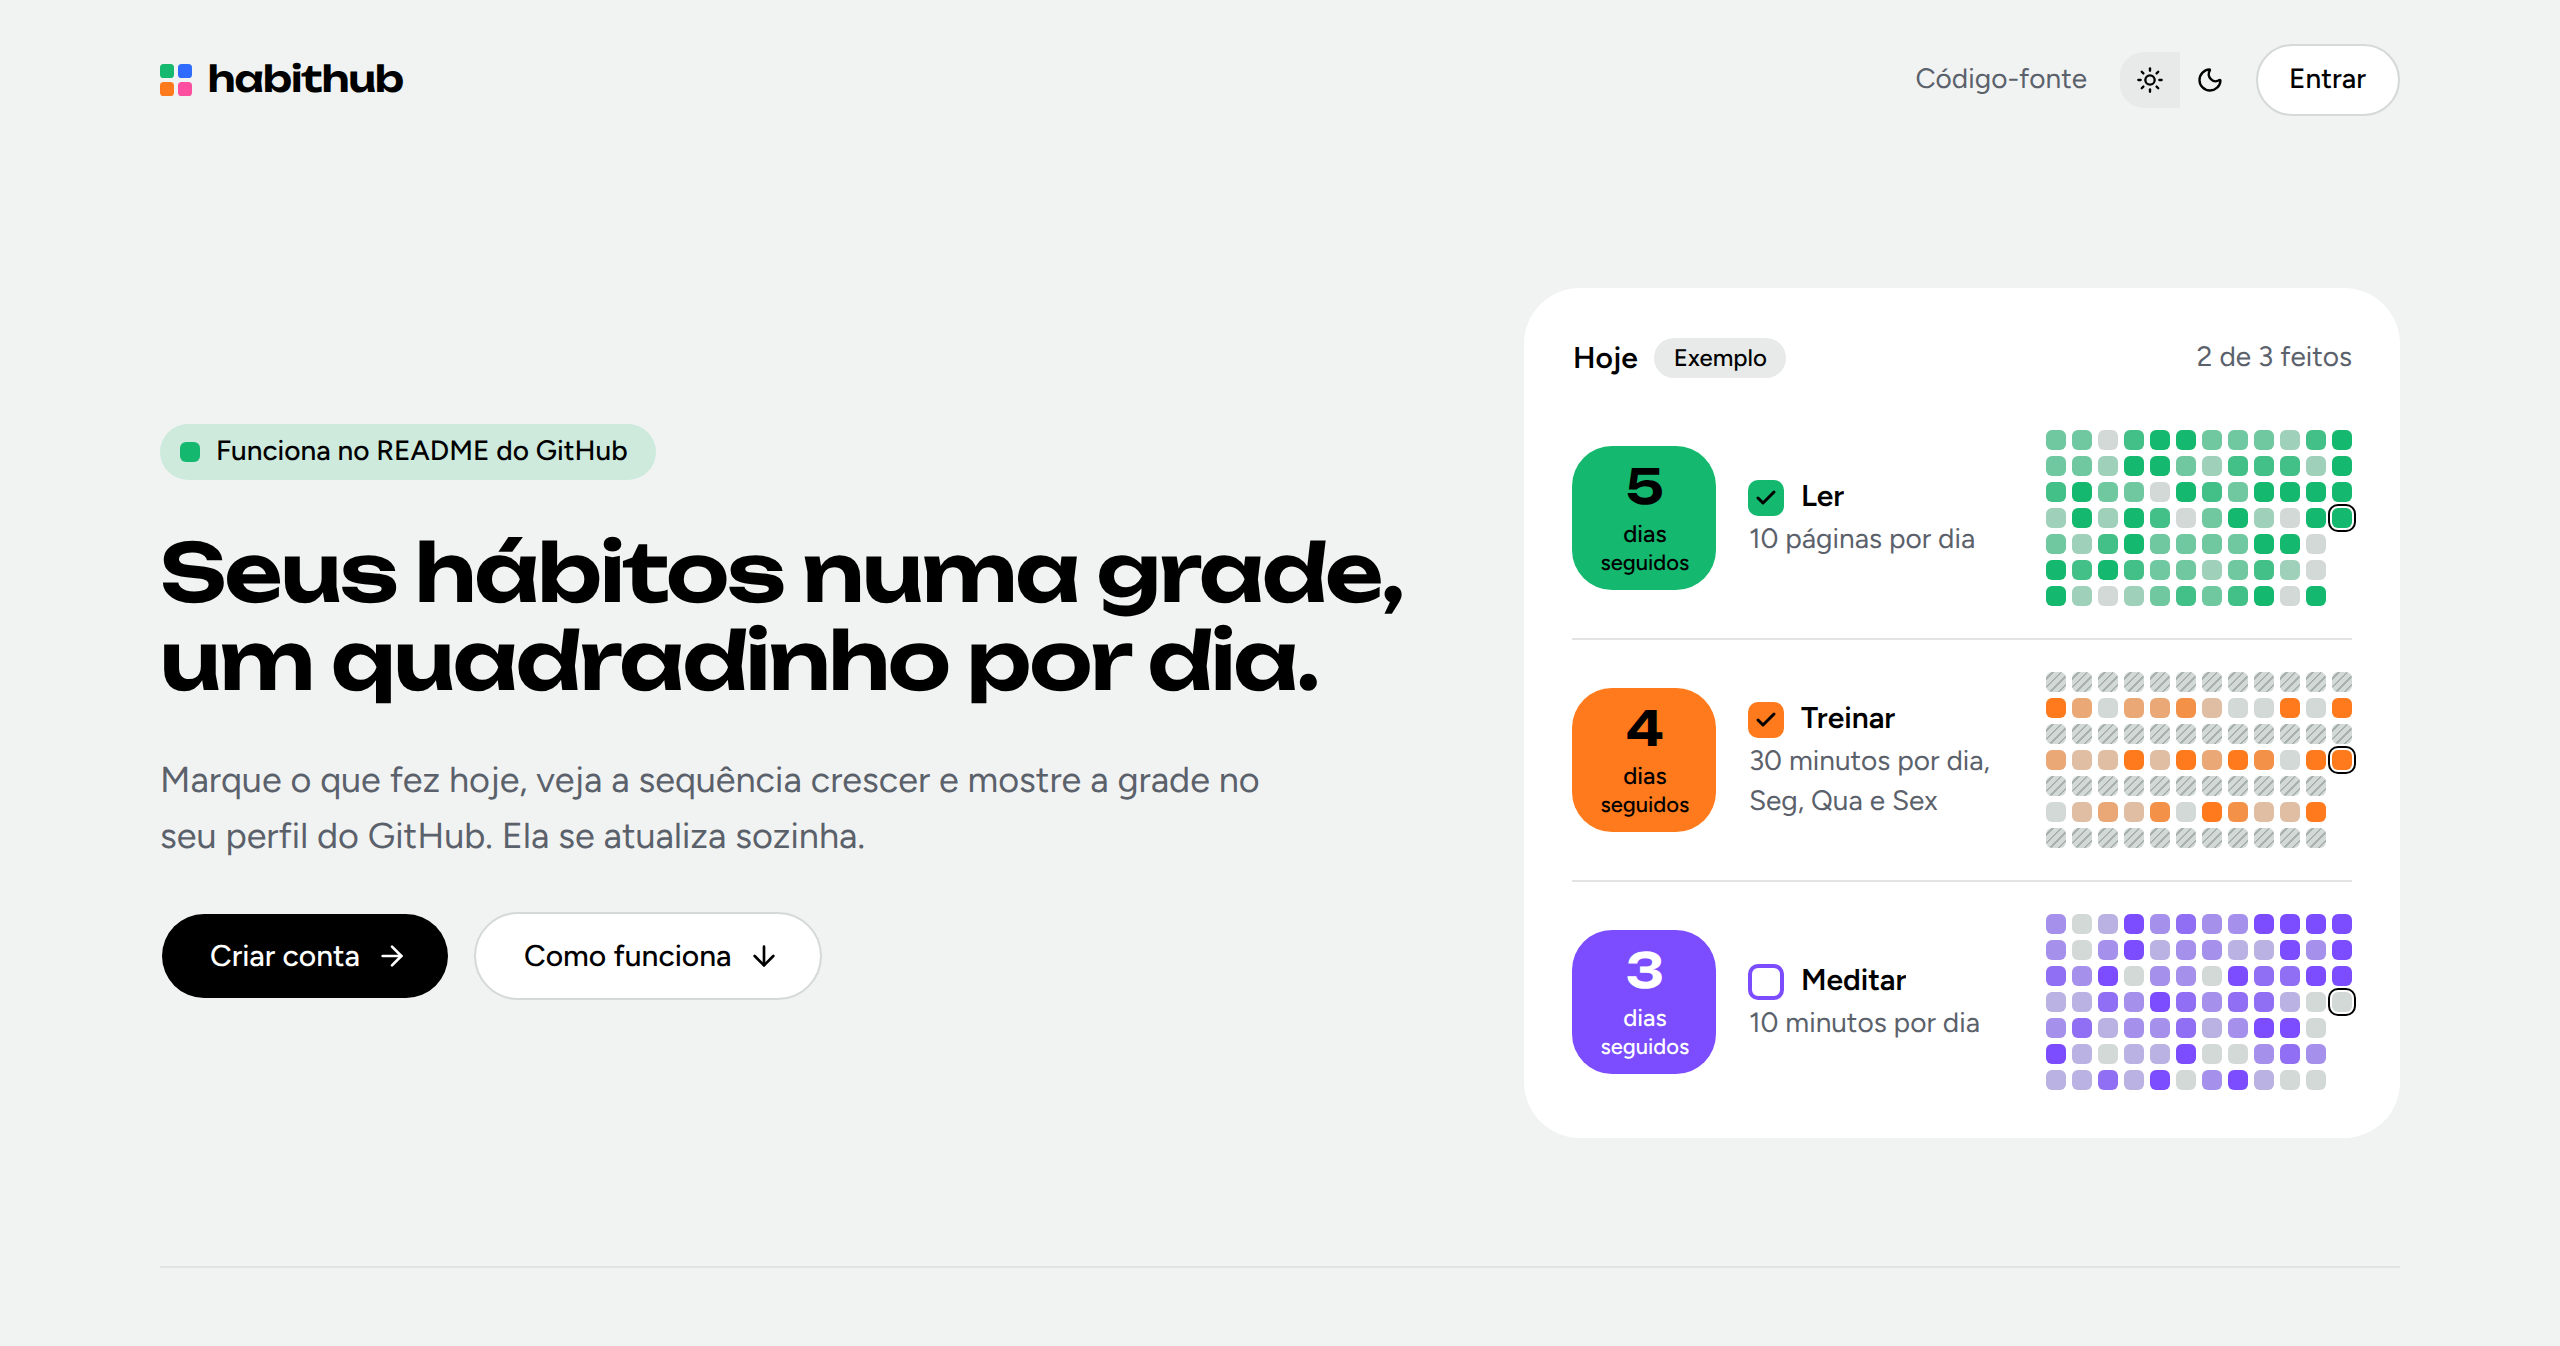
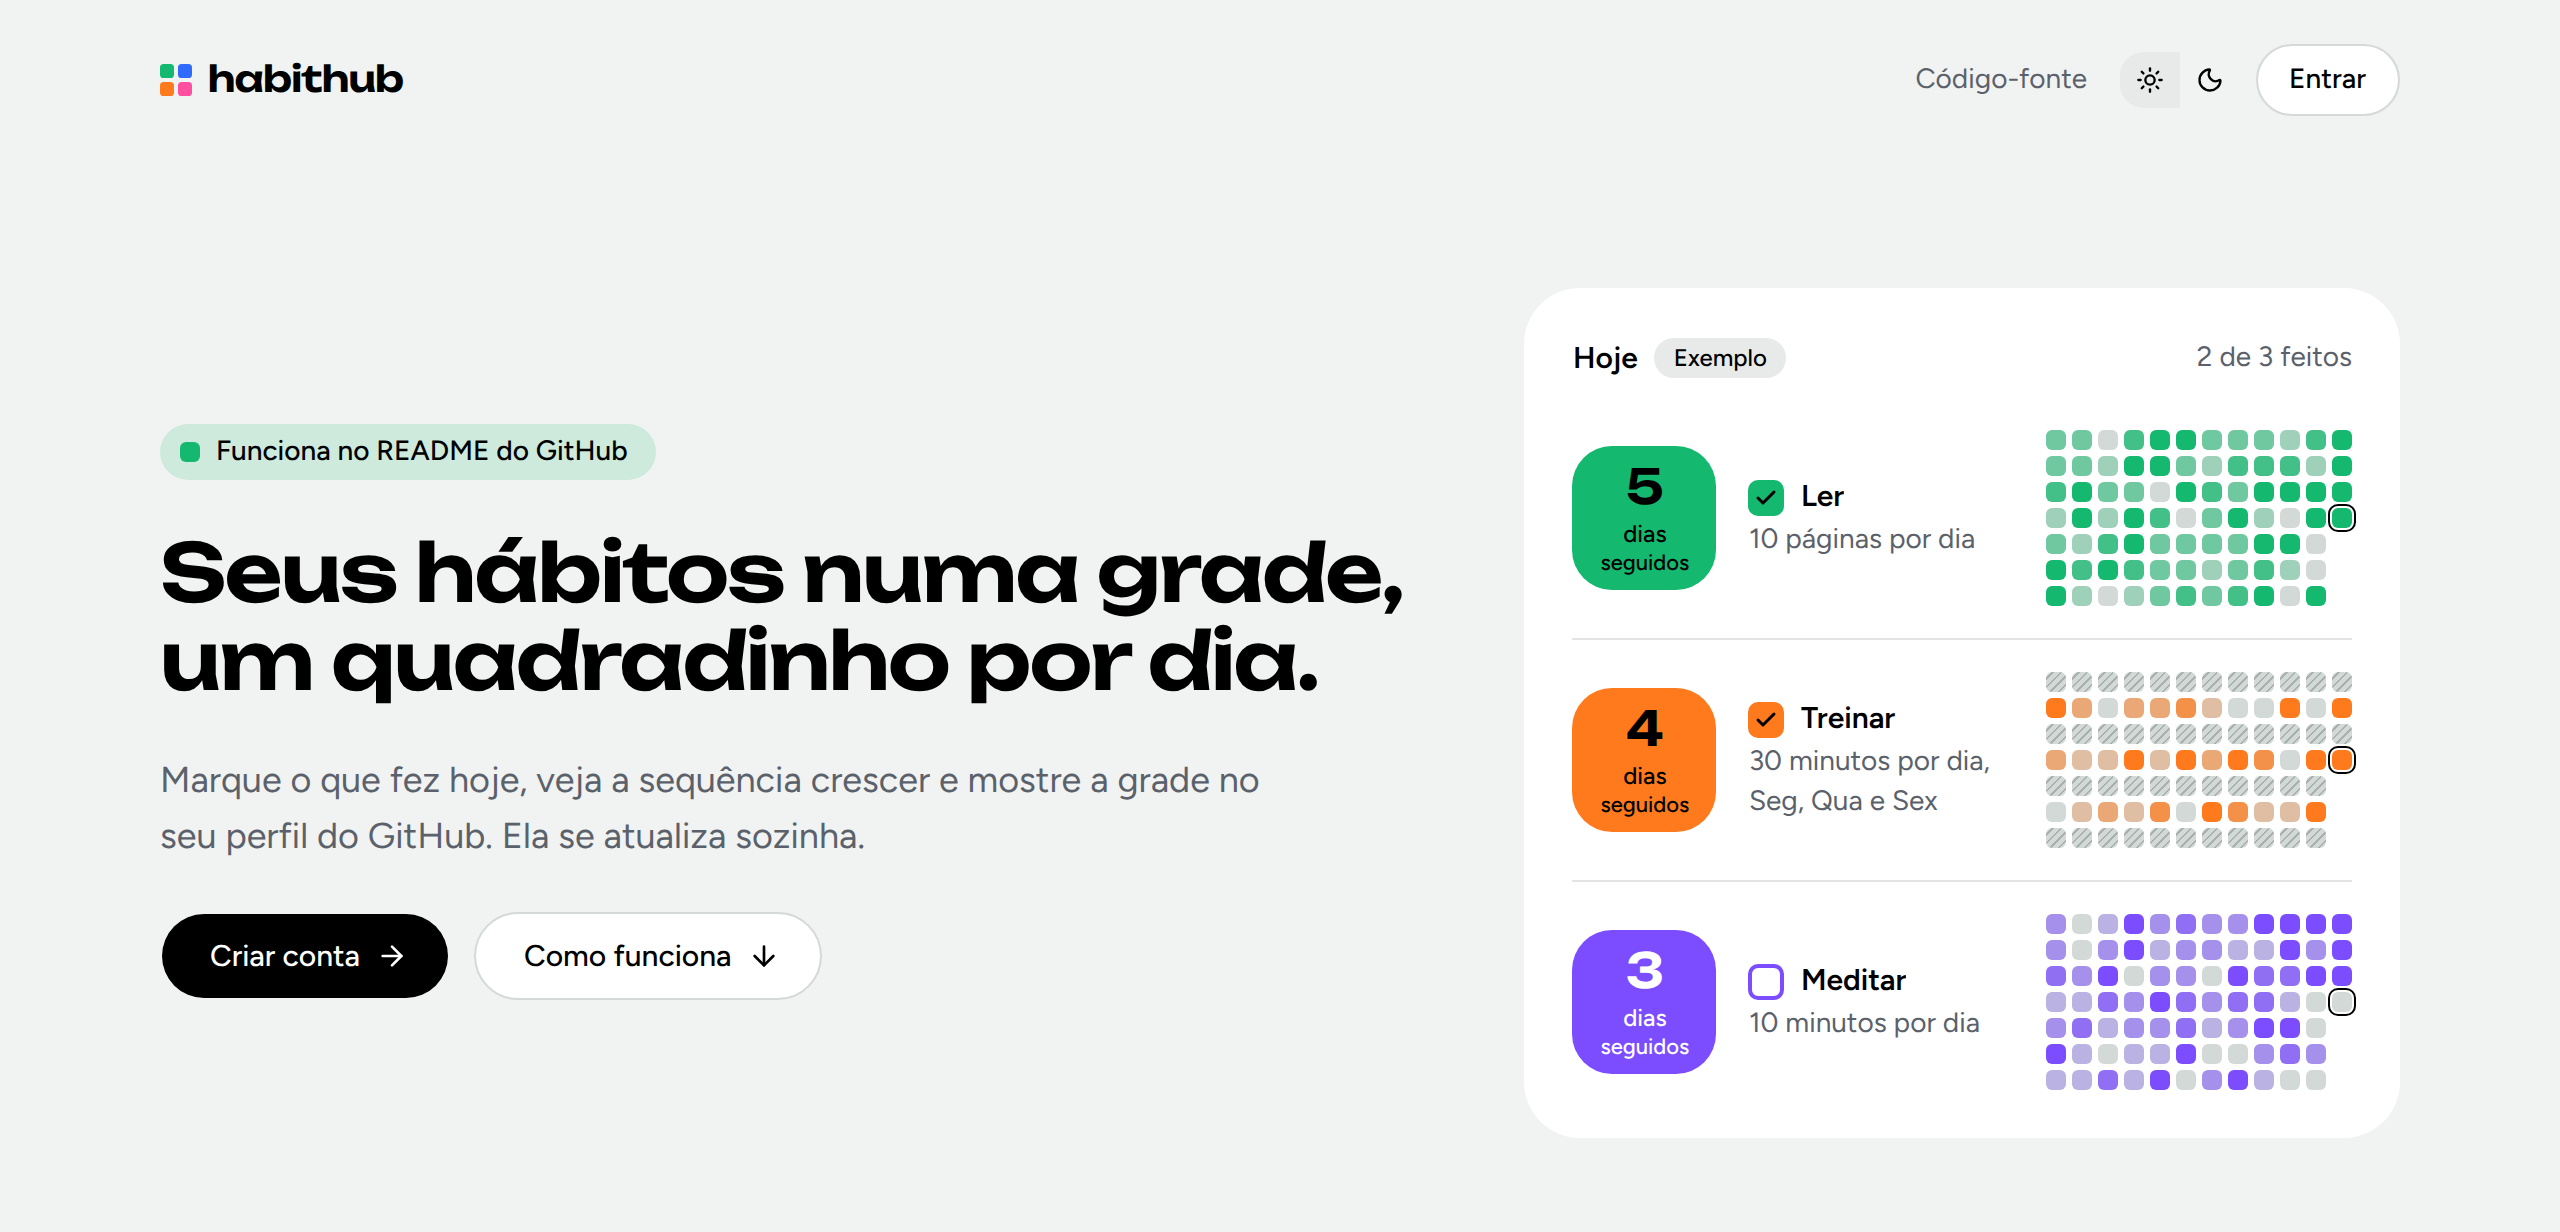
docs: README gallery without repeats, collapsible data model, one limitations section
- The dashboard capture repeated what the GIF shows; it is replaced by the
  README code screen (a published habit's preview and the code to copy).
  Both gallery captures now share 1280x720.
- The home capture stops above the divider, and the phone capture at the end
  of "Tarefas do dia".
- The data model diagram sits in a <details> ("Ver modelo de dados"); the
  note on effective_from stays visible.
- Next steps and known limitations become one section where each
  limitation carries its plan; the Gmail limits stay only in Decisões.
- The header tagline no longer repeats the one in the home capture.

diff --git a/scripts/readme-media.ts b/scripts/readme-media.ts
@@ -1,6 +1,7 @@
 /**
  * Regenerates the README images in docs/screenshots/: the logo, the home page (light and
- * dark), the dashboard, a habit page, the phone view and the GIF of a habit being marked.
+ * dark), the README code of a published habit, a habit page, the phone view and the GIF of a
+ * habit being marked.
  *
  * Needs, in this order:
  *   docker compose up -d && npm run db:migrate && npm run db:seed
@@ -24,6 +25,8 @@ const EMAIL = "dev@habithub.local";
 const PASSWORD = "senha-de-dev-123";
 const DESKTOP = { width: 1280, height: 800 };
 const PHONE = { width: 390, height: 844 };
+/** The two desktop captures in the README gallery share this size. */
+const GALLERY = { width: 1280, height: 720 };
 
 async function sql(query: string, params: unknown[] = []) {
   const client = new Client({ connectionString: process.env.DATABASE_URL });
@@ -35,9 +38,16 @@ async function sql(query: string, params: unknown[] = []) {
   }
 }
 
-/** The example account, confirmed (no reminder banner) and with a recent reading streak. */
+/**
+ * The example account, confirmed (no reminder banner), with a recent reading streak and
+ * "Ler" published under the username "exemplo" (for the README code capture).
+ */
 async function prepareExampleAccount() {
-  await sql("UPDATE users SET email_verified = true WHERE email = $1", [EMAIL]);
+  await sql("UPDATE users SET email_verified = true, username = 'exemplo' WHERE email = $1", [EMAIL]);
+  await sql(
+    "UPDATE habits SET is_public = true WHERE name = 'Ler' AND user_id = (SELECT id FROM users WHERE email = $1)",
+    [EMAIL],
+  );
   await sql(
     `INSERT INTO habit_entries (habit_id, date, value, skipped, updated_at)
      SELECT h.id, d::date, 20 + (extract(day FROM d)::int % 7), false, now()
@@ -90,7 +100,7 @@ async function logo(browser: Browser, theme: "light" | "dark") {
   await page.context().close();
 }
 
-/** The home page down to the end of its first block (the hero). */
+/** The home page down to the end of its first block (the hero), just above the divider. */
 async function home(browser: Browser, theme: "light" | "dark") {
   const page = await themedPage(browser, theme);
   await page.goto("/");
@@ -99,7 +109,7 @@ async function home(browser: Browser, theme: "light" | "dark") {
   const hero = await page.locator("main section").first().boundingBox();
   await page.screenshot({
     path: path.join(OUT, `inicio-${theme === "light" ? "claro" : "escuro"}.png`),
-    clip: { x: 0, y: 0, width: DESKTOP.width, height: Math.ceil(hero!.y + hero!.height + 40) },
+    clip: { x: 0, y: 0, width: DESKTOP.width, height: Math.floor(hero!.y + hero!.height - 16) },
   });
   await page.context().close();
 }
@@ -195,26 +205,48 @@ async function main() {
 
     await gif(browser, storageState);
 
-    const dashboard = await themedPage(browser, "dark", DESKTOP, storageState);
-    await dashboard.goto("/painel");
-    await dashboard.getByRole("article", { name: "Ler" }).waitFor();
-    await settle(dashboard);
-    await dashboard.screenshot({ path: path.join(OUT, "painel-escuro.png") });
-    await dashboard.context().close();
+    // The habit page scrolled to "Perfil público": the README image preview and its code.
+    const share = await themedPage(browser, "dark", DESKTOP, storageState);
+    await share.goto("/painel");
+    await share.getByRole("article", { name: "Ler" }).getByRole("link", { name: "Ler" }).click();
+    const section = share.getByRole("region", { name: "Perfil público" });
+    const preview = section.getByRole("img", { name: "Ler no HabitHub" });
+    await preview.waitFor();
+    // The preview for the other theme stays hidden (and lazy), so only the visible one counts.
+    await share.waitForFunction(() =>
+      [...document.querySelectorAll<HTMLImageElement>("img[alt='Ler no HabitHub']")].some(
+        (img) => img.offsetParent !== null && img.complete && img.naturalWidth > 0,
+      ),
+    );
+    await settle(share);
+    // Same size as the habit page capture, starting at the section (it sits at the end
+    // of the page, so scrolling cannot bring it to the top of the window).
+    const top = await section.evaluate((element) => element.getBoundingClientRect().top + window.scrollY - 24);
+    await share.screenshot({
+      path: path.join(OUT, "codigo-readme-escuro.png"),
+      fullPage: true,
+      clip: { x: 0, y: Math.floor(top), ...GALLERY },
+    });
+    await share.context().close();
 
     const habit = await themedPage(browser, "light", DESKTOP, storageState);
     await habit.goto("/painel");
     await habit.getByRole("article", { name: "Ler" }).getByRole("link", { name: "Ler" }).click();
     await habit.getByRole("heading", { level: 1, name: "Ler" }).waitFor();
     await settle(habit);
-    await habit.screenshot({ path: path.join(OUT, "habito-claro.png") });
+    await habit.screenshot({ path: path.join(OUT, "habito-claro.png"), clip: { x: 0, y: 0, ...GALLERY } });
     await habit.context().close();
 
     const phone = await themedPage(browser, "dark", PHONE, storageState);
     await phone.goto("/painel");
     await phone.getByRole("region", { name: "Hábitos de hoje" }).waitFor();
     await settle(phone);
-    await phone.screenshot({ path: path.join(OUT, "celular-escuro.png") });
+    // Down to the end of the "Tarefas do dia" card, not in the middle of the next one.
+    const tasks = await phone.getByRole("region", { name: "Tarefas do dia" }).boundingBox();
+    await phone.screenshot({
+      path: path.join(OUT, "celular-escuro.png"),
+      clip: { x: 0, y: 0, width: PHONE.width, height: Math.ceil(tasks!.y + tasks!.height + 24) },
+    });
     await phone.context().close();
   } finally {
     await browser.close();

diff --git a/README.md b/README.md
@@ -5,7 +5,7 @@
   </picture>
 </h1>
 
-<p align="center"><strong>Seus hábitos numa grade, um quadradinho por dia.</strong></p>
+<p align="center"><strong>Constância que dá para ver, no app e no README do GitHub.</strong></p>
 
 <p align="center">
   <a href="https://habithub-app.vercel.app">App no ar</a> ·
@@ -43,8 +43,8 @@ Uso o app no dia a dia desde outubro de 2026.
 <table>
   <tr>
     <td width="500">
-      <img alt="Painel no tema escuro com os hábitos e as tarefas de hoje e a grade de cada hábito" src="docs/screenshots/painel-escuro.png" width="500"><br>
-      <sub>Painel: o que fazer hoje e a grade de cada hábito</sub>
+      <img alt="Seção Perfil público de um hábito, no tema escuro, com a prévia da imagem do README, o código para colar e o botão Copiar código para o README" src="docs/screenshots/codigo-readme-escuro.png" width="500"><br>
+      <sub>Publicar um hábito e copiar o código para o README</sub>
     </td>
     <td rowspan="2" width="270" valign="top">
       <img alt="Painel no celular, no tema escuro" src="docs/screenshots/celular-escuro.png" width="270"><br>
@@ -102,6 +102,9 @@ flowchart LR
   app -. "e-mails" .-> gmail["Gmail SMTP"]
 ```
 
+<details>
+<summary>Ver modelo de dados</summary>
+
 O modelo de dados central (sem as tabelas da autenticação), a partir do [`schema.prisma`](prisma/schema.prisma):
 
 ```mermaid
@@ -146,6 +149,8 @@ erDiagram
     date completed_on
   }
 ```
+
+</details>
 
 Um registro não aponta para uma versão: para cada dia, vale a versão do mesmo hábito com o maior `effective_from` que não passa da data do registro.
 
@@ -218,17 +223,11 @@ Cada merge na `main` publica sozinho na Vercel. Antes do build, um script cria u
 - As cores de cada hábito saem de [`palette.ts`](src/lib/palette.ts), com contraste mínimo testado.
 - Os e-mails passam pela interface `EmailSender` ([`email.ts`](src/server/email.ts)); trocar de provedor é mexer só nela.
 
-## Próximos passos
+## Limitações e próximos passos
 
-- Versão em inglês.
-- Lembretes e notificações.
-- Diminuir o atraso da imagem do README.
-
-## Limitações conhecidas
-
-- Interface só em pt-BR.
-- A imagem do README pode levar até 1 hora para mostrar um registro novo; o proxy de imagens do GitHub pode guardá-la por mais tempo.
-- Os e-mails saem de uma conta Gmail: uns 500 por dia, e alguns podem cair no spam.
+- **Interface só em pt-BR** → a versão em inglês está nos planos.
+- **A imagem do README pode levar até 1 hora para mostrar um registro novo**, e o proxy de imagens do GitHub pode guardá-la por mais tempo → diminuir esse atraso está nos planos.
+- **Sem lembretes nem notificações** → lembretes estão nos planos.
 
 ## Licença
 
